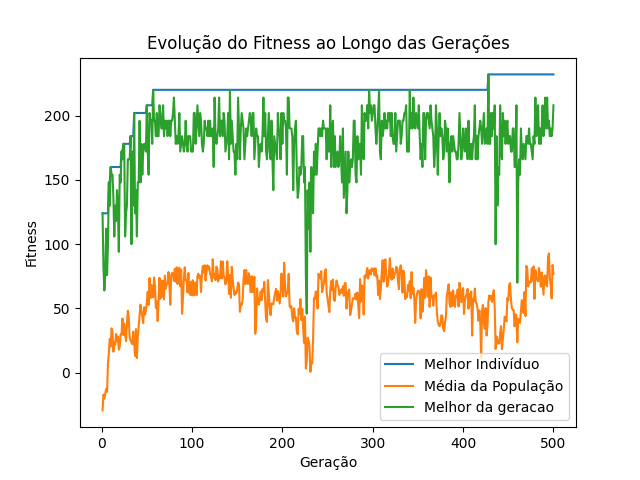
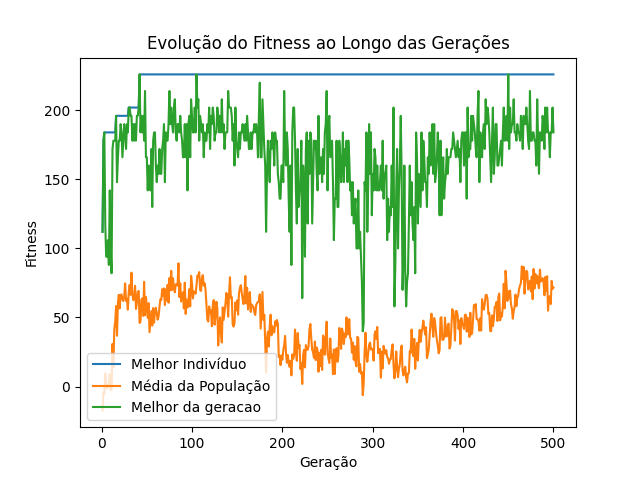
add mutacao variavel

diff --git a/Novo/simulacao.py b/Novo/simulacao.py
@@ -22,10 +22,10 @@ contador_quantidade = 500
 
 melhor_de_todos: Individuo 
 
-mutacao_variavel = [0, 1, 1, 1, 0]
-index_mutacao = 0
-DELTA = 0.5
-delta_fitness = 0
+#mutacao_variavel = [0, 1, 1, 1, 0]
+#index_mutacao = 0
+#DELTA = 0.5
+#delta_fitness = 0
 
 contador_variavel = 0
 contador_variavel_qtd = 500
@@ -59,10 +59,20 @@ def cruzamento(individuo1: Individuo, individuo2: Individuo):
 
 class Simulacao():
     mudanca_num_pop: int #mudanca na qntd de individuos, ocorre quando individuos muito ruims são removidos da pop
+    MUTACAO_VARIAVEL:list[int] = [0, 1, 0, 0, 1, 0]
+    mutacao_variavel_index:int 
+    DELTA:float = 0.5
+    geracoes_fit_estag: int
+    
 
     def __init__(self) -> None:
-        self.mudanca_num_pop = 0 #inicializa essa variavel para 0, para ela poder ser usada na primeira vez
+        self.mudanca_num_pop = 0 #inicializa essas variaveis para 0, para ela poder ser usada na primeira vez
+        self.geracoes_fit_estag = 0
+        self.mutacao_variavel_index = 0
         pass
+
+    def __mutacao_atual__(self)->int: #retorna qual o nivel de mutacao é requerido 
+        return self.MUTACAO_VARIAVEL[self.mutacao_variavel_index]
 
     def nova_populacao(self, populacao: list[Individuo], tipo: int)->list:
         global fintess_melhor_geracao
@@ -89,7 +99,7 @@ class Simulacao():
         posicao = self.mapa.posicao_disponivel(3) #pegar uma nova posição
         nova_populacao.append(CriarIndividuo(gene=melhor_da_populacao.gene, posicao=posicao, tipo=tipo, modelo=self.modelo)) #colocar o melhor da geração na prróximo geração
         tam_pop_antiga: int = len(populacao)
-        print(f"tam da população antes: {tam_pop_antiga}")
+        #print(f"tam da população antes: {tam_pop_antiga}")
         
         fit_melhor_pop: int = melhor_da_populacao.quantidade
         #---------------------Cruzar---------------------
@@ -114,18 +124,14 @@ class Simulacao():
             nova_populacao.append(CriarIndividuo(gene=gene, posicao=posicao, tipo=tipo, modelo=self.modelo)) #adicionar o novo cara na população
        
         for i in range(self.mudanca_num_pop):  #coloca novos indv para entrar no lugar dos piores retirados da populacao
-            print("nova cara para compensar")
+            #print("novo cara para compensar")
             posicao = self.mapa.posicao_disponivel(tipo)
-            nova_populacao.append(CriarIndividuo(gene=melhor_da_populacao.gene, posicao=posicao, modelo=self.modelo, tipo=tipo))
+            nova_populacao.append(CriarIndividuo(gene=ag.mutate(melhor_da_populacao.gene,self.__mutacao_atual__()), posicao=posicao, modelo=self.modelo, tipo=tipo))
        
-        for i in range(10):
+        for i in range(10): #adiciona 10 individous aleatorios
             posicao = self.mapa.posicao_disponivel(tipo)
             nova_populacao.append(CriarIndividuo(gene=None, posicao=posicao, modelo=self.modelo, tipo=tipo))
 
-       # for i in range(len(populacao) - (10), len(populacao)):
-           # posicao = self.mapa.posicao_disponivel(tipo)
-
-           # nova_populacao.append(CriarIndividuo(gene=None, posicao=posicao, modelo=self.modelo, tipo=tipo))
 
         #---------------------Grafico---------------------
         media_dos_fitness /= len(populacao) #calcula media
@@ -135,7 +141,7 @@ class Simulacao():
         fintess_melhor_geracao.append(melhor_da_populacao.quantidade)
         self.mudanca_num_pop = abs(tam_pop_antiga - len(nova_populacao) )
         print(f"mudanca na popula {self.mudanca_num_pop}")
-        print(f"tam da nova populacao {len(nova_populacao) }")
+        #print(f"tam da nova populacao {len(nova_populacao) }")
         return nova_populacao
 
     def Simulate(self):
@@ -211,14 +217,26 @@ class Simulacao():
                 self.Plotar_Grafico()
 
             contador += 1
-
-            #---------------------Simular---------------------
+            fit_melhor_antigo: int = melhor_de_todos.quantidade
+            #---------------------Simular--------------------- 
             self.Simulate()
-
+            
             #---------------------Nova Populacao---------------------
             self.mapa = Mapa(50, 50, obstaculo_chance=0, terra_chance=0.5, grama_chance=0.5) #criar um mapa novo (resetar as gramas)
 
-            self.individuos = self.nova_populacao(self.individuos, self.individuos[0].tipo)     
+            self.individuos = self.nova_populacao(self.individuos, self.individuos[0].tipo)    
+            
+            fit_novo_melhor: int = melhor_de_todos.quantidade 
+
+            mudanca_fit = abs(fit_novo_melhor - fit_melhor_antigo)
+            
+            if mudanca_fit < self.DELTA:
+                self.geracoes_fit_estag += 1
+
+            tamanho_lista: int = len(self.MUTACAO_VARIAVEL)
+            if  self.geracoes_fit_estag >= 10:
+                self.mutacao_variavel_index  =  (self.mutacao_variavel_index + 1) %   tamanho_lista
+                self.geracoes_fit_estag = 0
             
             
     def Plotar_Grafico(self):

diff --git a/Novo/ag/ag.py b/Novo/ag/ag.py
@@ -1,6 +1,7 @@
 import random
 
-def mutate_weihts(gene):
+
+def mutate_weihts(gene)->list:
     layer_sorteada = random.randint(0, len(gene) - 1)
 
     neuronio_a_mutar = random.randint(0, len(gene[layer_sorteada]["weights"]) - 1)
@@ -10,7 +11,7 @@ def mutate_weihts(gene):
 
     return gene
 
-def mutate_bias(gene):
+def mutate_bias(gene)->list:
     layer_sorteada = random.randint(0, len(gene) - 1)
 
     neuronio_a_mutar = random.randint(0, len(gene[layer_sorteada]["bias"]) - 1)
@@ -24,7 +25,7 @@ class AG:
     def __init__(self) -> None:
         pass   
     
-    def mutate(self, gene, qtd):
+    def mutate(self, gene, qtd)->list:
         for i in range(qtd):
             dice = random.randint(0, 1)
 
